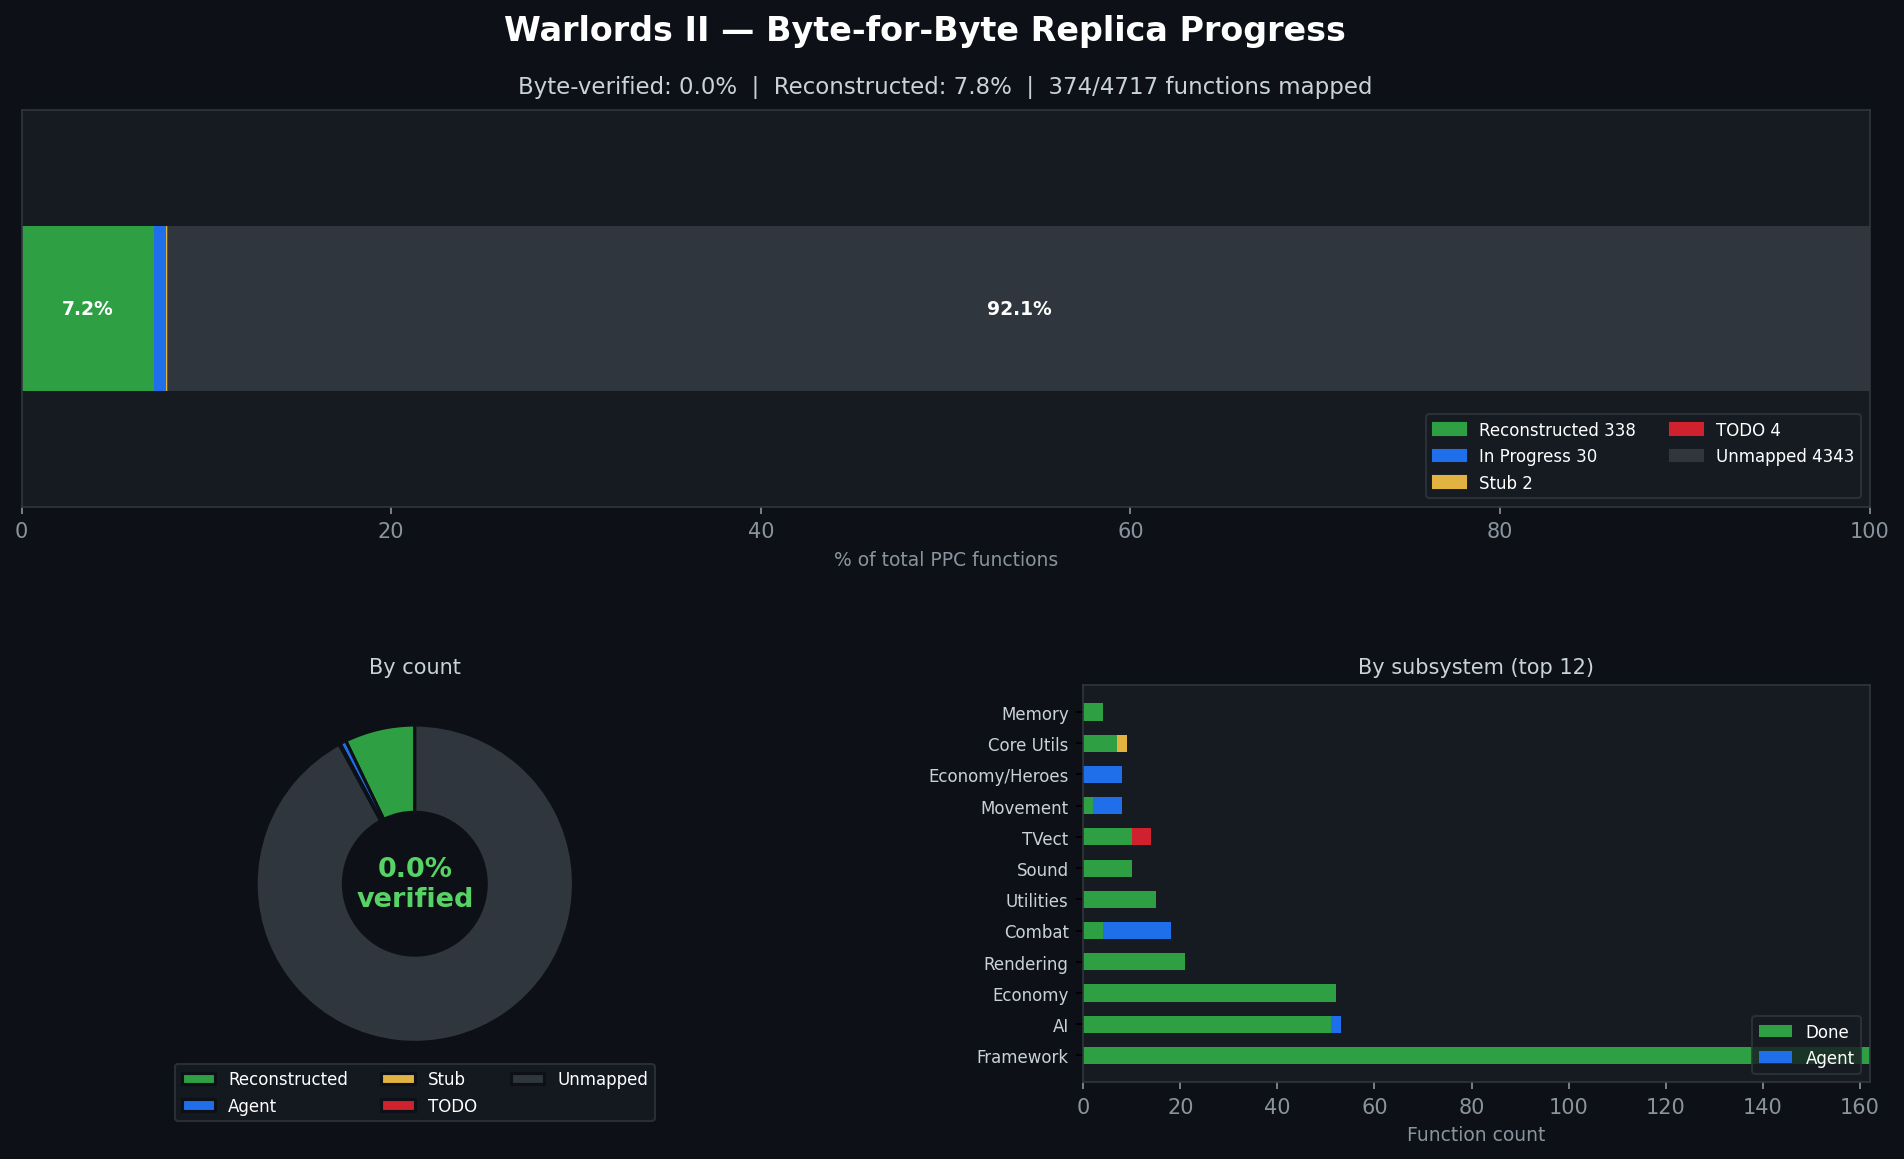
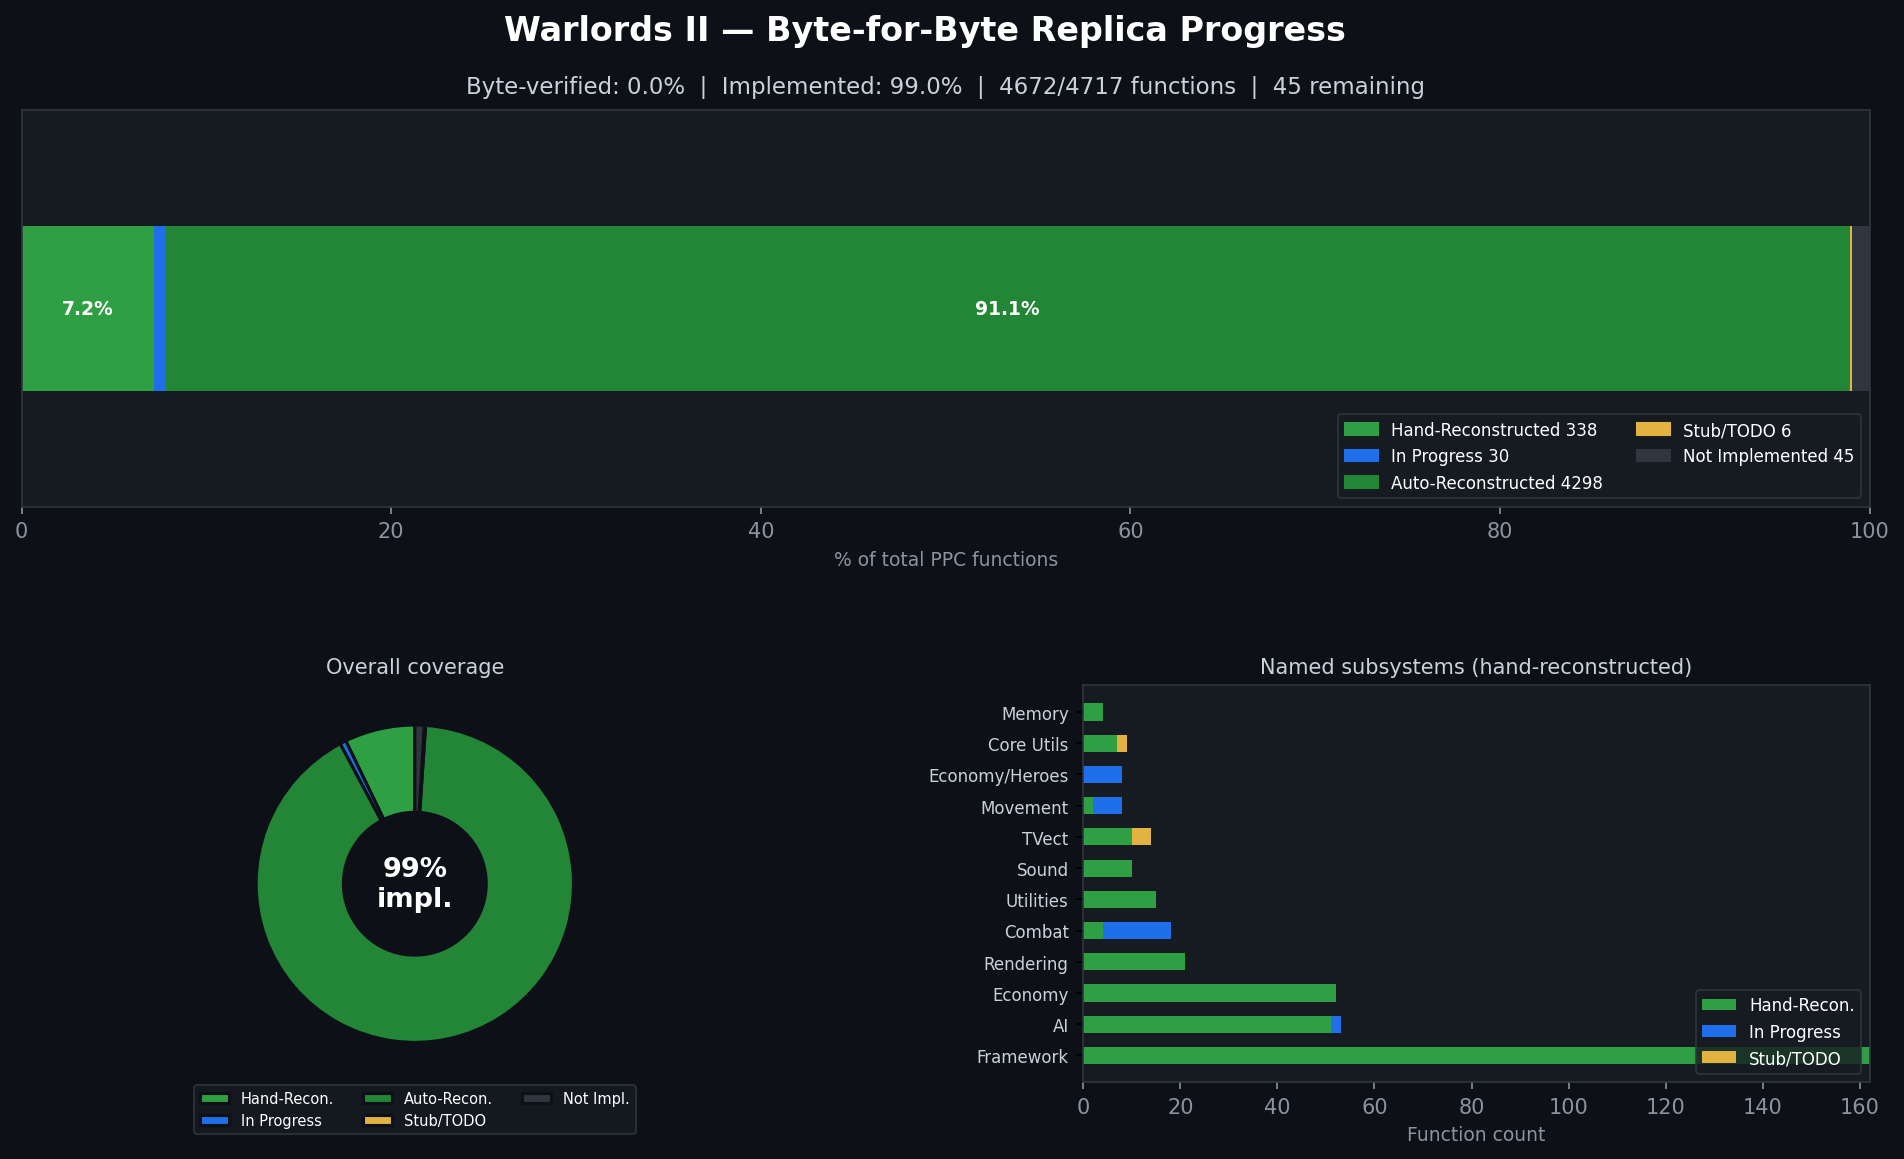
Update progress chart with real 99% coverage numbers
Break down the 4717 PPC functions accurately:
- Byte-Verified: 0 (0.0%) — tooling in place, work ahead
- Hand-Reconstructed: 338 (7.2%) — named, fully understood
- In Progress: 30 (0.6%) — agent assignments
- Auto-Reconstructed: 4298 (91.1%) — Ghidra-derived stubs in source
- Not Implemented: 45 (1.0%)

Previous chart only counted FUNCTION_MAP (374 named functions),
missing the thousands of stubs in wave2_*.c and recovered_stubs.c.

diff --git a/tools/gen_progress_chart.py b/tools/gen_progress_chart.py
@@ -26,11 +26,11 @@ VERIFIED_FILE  = os.path.join(REPO_ROOT, "tools", "byte_verified_count.txt")
 
 # ── colours (GitHub dark/light friendly) ────────────────────────────────────
 C_VERIFIED = "#56d364"   # bright green  (byte-verified identical)
-C_DONE     = "#2ea043"   # green         (reconstructed, not yet byte-verified)
+C_DONE     = "#2ea043"   # green         (hand-reconstructed, named)
+C_AUTO     = "#238636"   # dark green    (auto-reconstructed from Ghidra)
 C_AGENT    = "#1f6feb"   # blue          (in-progress / agent)
-C_STUB     = "#e3b341"   # amber         (stub)
-C_TODO     = "#cf222e"   # red           (TODO)
-C_UNMAPPED = "#30363d"   # dark grey
+C_STUB     = "#e3b341"   # amber         (stub/todo)
+C_MISSING  = "#30363d"   # dark grey     (not yet implemented)
 
 # ── 1. Count total PPC functions from Ghidra output ─────────────────────────
 total_ppc = sum(
@@ -46,7 +46,7 @@ if os.path.exists(VERIFIED_FILE):
     except (ValueError, IndexError):
         pass
 
-# ── 2. Parse FUNCTION_MAP per subsystem ─────────────────────────────────────
+# ── 2. Parse FUNCTION_MAP for named/hand-reconstructed functions ─────────────
 SUBSYSTEM_LABELS = {
     "AI System":                    "AI",
     "Framework / MacApp":           "Framework",
@@ -66,6 +66,7 @@ SUBSYSTEM_LABELS = {
 
 sections = {}
 current = None
+named_addrs = set()
 
 with open(FUNCTION_MAP) as f:
     for line in f:
@@ -81,6 +82,9 @@ with open(FUNCTION_MAP) as f:
         if current is None:
             continue
         parts = [p.strip() for p in line.split("|")]
+        if len(parts) < 2:
+            continue
+        named_addrs.add("FUN_" + parts[0])
         status = parts[4] if len(parts) > 4 else ""
         if "DONE" in status:
             sections[current]["DONE"] += 1
@@ -91,27 +95,33 @@ with open(FUNCTION_MAP) as f:
         else:
             sections[current]["TODO"] += 1
 
-# Merge tiny sections
-merged = {}
-for label, counts in sections.items():
-    total = sum(counts.values())
-    if total == 0:
-        continue
-    merged[label] = counts
-
+merged = {label: counts for label, counts in sections.items() if sum(counts.values()) > 0}
 totals = {k: sum(s[k] for s in merged.values()) for k in ("DONE", "AGENT", "STUB", "TODO")}
-total_mapped     = sum(totals.values())
-total_unmapped   = max(0, total_ppc - total_mapped)
-# Byte-verified comes out of the DONE pool for display purposes
-done_unverified  = max(0, totals["DONE"] - byte_verified)
+total_named = sum(totals.values())
+
+# ── 3. Count auto-reconstructed: FUN_10xxxxxx defined in source but not named ─
+src_defined = set()
+for path in glob.glob(os.path.join(REPO_ROOT, "src", "**", "*.c"), recursive=True) + \
+             glob.glob(os.path.join(REPO_ROOT, "src", "*.c")):
+    content = open(path).read()
+    for m in re.finditer(r'^\w[\w\s\*]+\s+(FUN_10[0-9a-f]{6})\s*\(', content, re.MULTILINE):
+        src_defined.add(m.group(1))
+
+# Auto-stubs = defined in source with PPC address but not in FUNCTION_MAP
+auto_stubs   = len(src_defined - named_addrs)
+total_impl   = total_named + auto_stubs
+total_missing = max(0, total_ppc - total_impl)
+
+# Byte-verified comes out of the DONE pool
+done_unverified = max(0, totals["DONE"] - byte_verified)
 
 pct_verified  = byte_verified   / total_ppc * 100
 pct_done      = done_unverified / total_ppc * 100
+pct_auto      = auto_stubs      / total_ppc * 100
 pct_agent     = totals["AGENT"] / total_ppc * 100
-pct_stub      = totals["STUB"]  / total_ppc * 100
-pct_todo      = totals["TODO"]  / total_ppc * 100
-pct_unmapped  = total_unmapped  / total_ppc * 100
-pct_reconstructed = (totals["DONE"] + totals["AGENT"]) / total_ppc * 100
+pct_stub      = (totals["STUB"] + totals["TODO"]) / total_ppc * 100
+pct_missing   = total_missing   / total_ppc * 100
+pct_total_impl = total_impl     / total_ppc * 100
 
 # ── 3. Plot ──────────────────────────────────────────────────────────────────
 fig = plt.figure(figsize=(14, 8), facecolor="#0d1117")
@@ -133,18 +143,18 @@ for ax in [ax_bar, ax_donut, ax_subs]:
 # ── 3a. Top: overall stacked bar ─────────────────────────────────────────────
 bar_data = [
     (pct_verified, C_VERIFIED, f"Byte-Verified {byte_verified}"),
-    (pct_done,     C_DONE,    f"Reconstructed {done_unverified}"),
-    (pct_agent,    C_AGENT,   f"In Progress {totals['AGENT']}"),
-    (pct_stub,     C_STUB,    f"Stub {totals['STUB']}"),
-    (pct_todo,     C_TODO,    f"TODO {totals['TODO']}"),
-    (pct_unmapped, C_UNMAPPED, f"Unmapped {total_unmapped}"),
+    (pct_done,     C_DONE,     f"Hand-Reconstructed {done_unverified}"),
+    (pct_agent,    C_AGENT,    f"In Progress {totals['AGENT']}"),
+    (pct_auto,     C_AUTO,     f"Auto-Reconstructed {auto_stubs}"),
+    (pct_stub,     C_STUB,     f"Stub/TODO {totals['STUB'] + totals['TODO']}"),
+    (pct_missing,  C_MISSING,  f"Not Implemented {total_missing}"),
 ]
 
 left = 0
 for pct, color, label in bar_data:
     if pct > 0:
         ax_bar.barh(0, pct, left=left, color=color, height=0.5)
-        if pct > 3:
+        if pct > 4:
             ax_bar.text(left + pct / 2, 0, f"{pct:.1f}%",
                         ha="center", va="center", color="white",
                         fontsize=9, fontweight="bold")
@@ -155,12 +165,12 @@ ax_bar.set_ylim(-0.6, 0.6)
 ax_bar.set_xlabel("% of total PPC functions", color="#8b949e", fontsize=9)
 ax_bar.set_title(
     f"Byte-verified: {pct_verified:.1f}%  |  "
-    f"Reconstructed: {pct_reconstructed:.1f}%  |  "
-    f"{total_mapped}/{total_ppc} functions mapped",
+    f"Implemented: {pct_total_impl:.1f}%  |  "
+    f"{total_impl}/{total_ppc} functions  |  "
+    f"{total_missing} remaining",
     color="#c9d1d9", fontsize=11, pad=8)
 ax_bar.set_yticks([])
 ax_bar.tick_params(axis="x", colors="#8b949e")
-ax_bar.xaxis.label.set_color("#8b949e")
 
 legend_patches = [mpatches.Patch(color=c, label=l) for _, c, l in bar_data if _ > 0]
 ax_bar.legend(handles=legend_patches, loc="lower right",
@@ -168,9 +178,11 @@ ax_bar.legend(handles=legend_patches, loc="lower right",
               labelcolor="white", fontsize=8, ncol=2)
 
 # ── 3b. Bottom-left: donut ────────────────────────────────────────────────────
-donut_vals   = [byte_verified, done_unverified, totals["AGENT"], totals["STUB"], totals["TODO"], total_unmapped]
-donut_colors = [C_VERIFIED, C_DONE, C_AGENT, C_STUB, C_TODO, C_UNMAPPED]
-donut_labels = ["Byte-Verified", "Reconstructed", "Agent", "Stub", "TODO", "Unmapped"]
+donut_vals   = [byte_verified, done_unverified, totals["AGENT"], auto_stubs,
+                totals["STUB"] + totals["TODO"], total_missing]
+donut_colors = [C_VERIFIED, C_DONE, C_AGENT, C_AUTO, C_STUB, C_MISSING]
+donut_labels = ["Byte-Verified", "Hand-Recon.", "In Progress",
+                "Auto-Recon.", "Stub/TODO", "Not Impl."]
 non_zero = [(v, c, l) for v, c, l in zip(donut_vals, donut_colors, donut_labels) if v > 0]
 vals, cols, labs = zip(*non_zero)
 
@@ -179,36 +191,33 @@ wedges, _ = ax_donut.pie(
     wedgeprops=dict(width=0.55, edgecolor="#0d1117", linewidth=1.5))
 
 ax_donut.text(0, 0,
-              f"{pct_verified:.1f}%\nverified",
-              ha="center", va="center", color=C_VERIFIED,
+              f"{pct_total_impl:.0f}%\nimpl.",
+              ha="center", va="center", color="white",
               fontsize=13, fontweight="bold")
-ax_donut.set_title("By count", color="#c9d1d9", fontsize=10, pad=6)
+ax_donut.set_title("Overall coverage", color="#c9d1d9", fontsize=10, pad=6)
 ax_donut.legend(wedges, labs, loc="lower center",
                 facecolor="#161b22", edgecolor="#30363d",
-                labelcolor="white", fontsize=8, ncol=3,
-                bbox_to_anchor=(0.5, -0.12))
+                labelcolor="white", fontsize=7, ncol=3,
+                bbox_to_anchor=(0.5, -0.15))
 
-# ── 3c. Bottom-right: per-subsystem horizontal bars ──────────────────────────
+# ── 3c. Bottom-right: named subsystems bar (hand-reconstructed only) ──────────
 sub_items = sorted(merged.items(), key=lambda x: -(x[1]["DONE"] + x[1]["AGENT"]))[:12]
 sub_labels = [s for s, _ in sub_items]
 sub_done   = [d["DONE"]  for _, d in sub_items]
 sub_agent  = [d["AGENT"] for _, d in sub_items]
-sub_stub   = [d["STUB"]  for _, d in sub_items]
-sub_todo   = [d["TODO"]  for _, d in sub_items]
+sub_stub   = [d["STUB"] + d["TODO"] for _, d in sub_items]
 
 y = np.arange(len(sub_labels))
 h = 0.55
-ax_subs.barh(y, sub_done,  color=C_DONE,    height=h, label="Done")
-ax_subs.barh(y, sub_agent, left=sub_done,   color=C_AGENT, height=h, label="Agent")
+ax_subs.barh(y, sub_done,  color=C_DONE,  height=h, label="Hand-Recon.")
+ax_subs.barh(y, sub_agent, left=sub_done, color=C_AGENT, height=h, label="In Progress")
 left_stub = [a + b for a, b in zip(sub_done, sub_agent)]
-ax_subs.barh(y, sub_stub, left=left_stub,   color=C_STUB,  height=h)
-left_todo = [a + b for a, b in zip(left_stub, sub_stub)]
-ax_subs.barh(y, sub_todo, left=left_todo,   color=C_TODO,  height=h)
+ax_subs.barh(y, sub_stub, left=left_stub, color=C_STUB, height=h, label="Stub/TODO")
 
 ax_subs.set_yticks(y)
 ax_subs.set_yticklabels(sub_labels, color="#c9d1d9", fontsize=8)
 ax_subs.set_xlabel("Function count", color="#8b949e", fontsize=9)
-ax_subs.set_title("By subsystem (top 12)", color="#c9d1d9", fontsize=10, pad=6)
+ax_subs.set_title("Named subsystems (hand-reconstructed)", color="#c9d1d9", fontsize=10, pad=6)
 ax_subs.tick_params(axis="x", colors="#8b949e")
 ax_subs.legend(facecolor="#161b22", edgecolor="#30363d",
                labelcolor="white", fontsize=8, loc="lower right")
@@ -217,13 +226,12 @@ os.makedirs(os.path.dirname(OUTPUT), exist_ok=True)
 plt.savefig(OUTPUT, dpi=150, bbox_inches="tight", facecolor="#0d1117")
 print(f"Saved: {OUTPUT}")
 print(f"\nStats:")
-print(f"  Total PPC functions  : {total_ppc}")
-print(f"  Mapped (FUNCTION_MAP): {total_mapped}")
-print(f"  Byte-Verified        : {byte_verified} ({pct_verified:.1f}%)")
-print(f"  Reconstructed (DONE) : {totals['DONE']} ({(totals['DONE']/total_ppc*100):.1f}%)")
-print(f"  In Progress (Agent)  : {totals['AGENT']} ({pct_agent:.1f}%)")
-print(f"  Stub                 : {totals['STUB']} ({pct_stub:.1f}%)")
-print(f"  TODO                 : {totals['TODO']} ({pct_todo:.1f}%)")
-print(f"  Unmapped             : {total_unmapped} ({pct_unmapped:.1f}%)")
-print(f"  Reconstructed total  : {pct_reconstructed:.1f}%")
+print(f"  Total PPC functions    : {total_ppc}")
+print(f"  Byte-Verified          : {byte_verified} ({pct_verified:.1f}%)")
+print(f"  Hand-Reconstructed     : {totals['DONE']} ({totals['DONE']/total_ppc*100:.1f}%)")
+print(f"  In Progress (Agent)    : {totals['AGENT']} ({pct_agent:.1f}%)")
+print(f"  Auto-Reconstructed     : {auto_stubs} ({pct_auto:.1f}%)")
+print(f"  Stub/TODO              : {totals['STUB']+totals['TODO']} ({pct_stub:.1f}%)")
+print(f"  Not Implemented        : {total_missing} ({pct_missing:.1f}%)")
+print(f"  Total Implemented      : {total_impl} ({pct_total_impl:.1f}%)")
 print(f"\nTo increment byte-verified count, update tools/byte_verified_count.txt")
